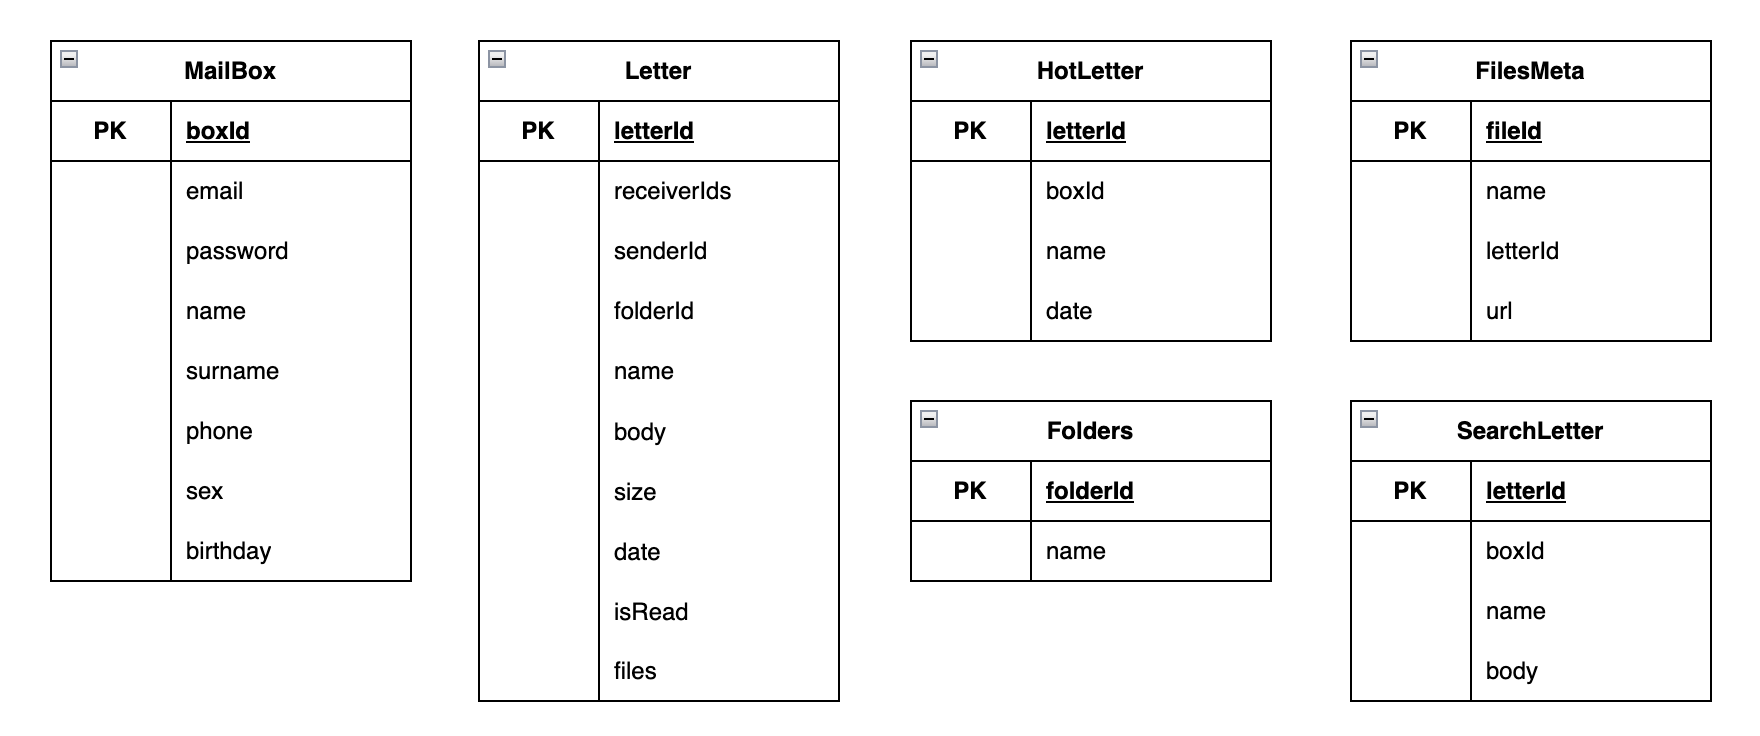
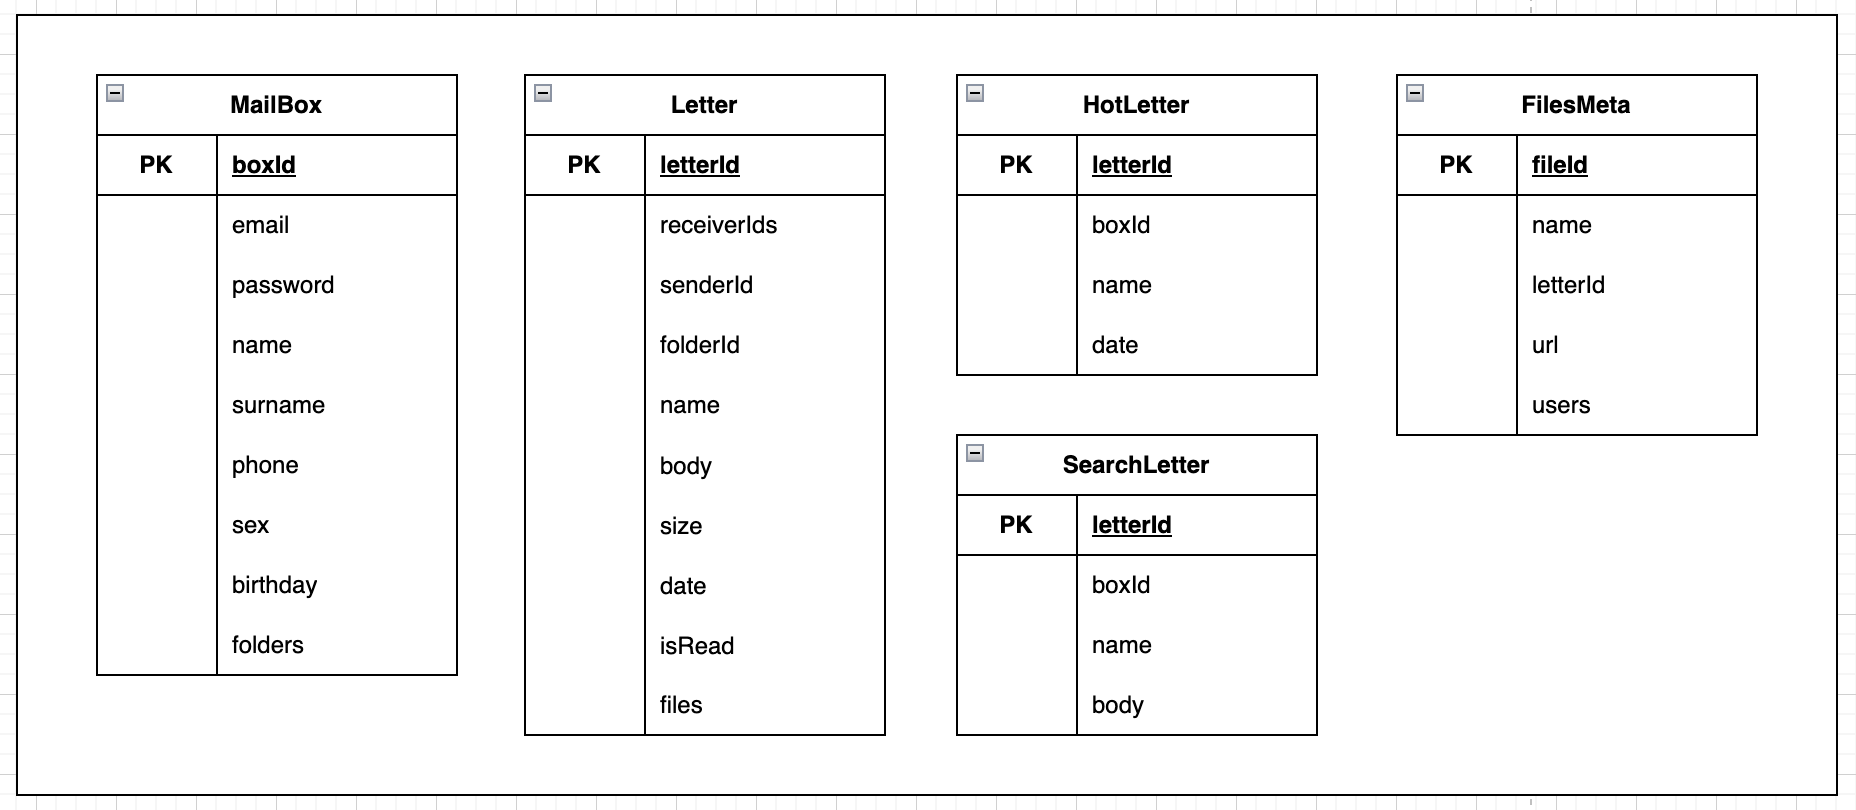
fix: logic and fiz db, technologies

diff --git a/README.md b/README.md
@@ -224,47 +224,41 @@ bigint    | bigint array[5]      | bigint   | bigint        | varchar(50) | varc
 | User           | 2 000        |
 | Folder         | 3 000        |
 
-// TODO: суммарный объем каждой таблице
+|    Таблица     |    Объем     |
+|----------------|--------------|
+| Letter         | 1 000 PB     |
+| MailBox        | 300 GB       |
+| User           | 600 GB       |
+| Folder         | 1 700 GB     |
 
 ## 6. Физическая схема <a name="6"></a>
 
 Таблица | Решение | Технология
 --------|---------|-----------
-MailBox | Денормолизуем бд, убрав таблицу таблицу User и перенеся все поля в таблицу MailBox | postgresql
+MailBox | Денормолизуем бд, убрав таблицу таблицу User и перенеся все поля в таблицу MailBox, также перенесем сюда же содержимое таблицы Folders в виде [{ folderId, name }] | postgresql
 Letter  | В таблице Letter добавим поле files, в котором хранится массив структур прикрепленных к письму файлов ({ id файла, имя файла }) | postgresql
 HotLetter | Для быстрой выдачи последних писем, выделим отдельную таблицу с названием и телом письма, индексированную по дате | postgresql
 SearchLetter | Для полнотекстового поиска писем по немполному совпадению используем Elasticsearch | elasticsearch
-Folders | Сами папки хранить в шардированный постгрес (ключ шардирования - id папки % число шардов), данные из постгри специальный сервис берет и кладет в мемкэш, сервис занимается валидацией и инвалидацией кэша, все остальные сервисы ходят в него | postgresql / memcached
-FilesMeta | Необходимо хранить мета-данные файла, такие как имя, url в s3, id письма для проверки доступа к файлу | postgresql
-Files   | Файлы хранить в kv blob-storage | s3
-
-// TODO: уточнить s3-хранилище
-
-* Сессии пользователей будем хранить в Reddis.
+FilesMeta | Необходимо хранить мета-данные файла, такие как имя, url в s3, id письма для проверки доступа к файлу, а также массив пользователей, имеющих доступ к файлу | postgresql
+Files   | Файлы хранить в kv blob-storage (s3) | Minio
+Sessions | Сессии пользователей | Reddis
 
 ![image](er_fiz.png)
 
-// TODO: в FilesMeta добавить массив пользователей
-// TODO: фолдерс запихнуть в маилбокс, список объектов с айди и именем
 ## 7. Технологии <a name="7"></a>
 
 | Технология  | Область применения             | Обоснование                                                                                             |
 |-------------|--------------------------------|---------------------------------------------------------------------------------------------------------|
-| React       | Библиотека Frontend            | Ускорит процесс разработки                                                                              |
-| Go          | Backend                        | Простота языка, удобные тулзы из коробки, высокая утилизация CPU                                                                  |
+| React       | Библиотека Frontend            | Ускорит процесс разработки, так как яляется распространенным решением с хорошей документацией и значительным количеством умелых разрабочтиков, знающих данный фреймворк |
+| Go          | Backend                        | Простота языка, удобные тулзы из коробки, высокая утилизация CPU, большое комьюнити разработчиков |
 | Redis       | Backend                        | In-memory БД позволяет обеспечить высокую скорость на чтение и запись, также с шардированием из коробки |
-| PostgreSQL  | Хранение данных сущностей      | Обладает хорошей функциональностью и поддержкой                                                         |
-| Memcached   | Хранение данных папок          | Cервис кэширования данных в оперативной памяти на основе хеш-таблицы |
-| Elasticsearch | Хранение писем для поиска          | Программная поисковая система |
-| Nginx       | Web-server Reverse proxy       | Комерческий стандарт                                                                                    |
-| GitLab      | Система контроля версий, CI/CD | Командная разработка, pipelines                                                                         |
-| Kubernetes  | Deploy                         | Масштабируемая система deploy                                                                           |
-| Docker      | Виртуализация                  | Локальная разработка, унификация процессов  
-
-// TODO: отказываемся от мемкэш
-// TODO: написать в обосновании, почему конкретно для меня
-// TODO: s3 добавить
-// TODO: обосновать эластик серч, работает ли он с индесом по дате и сортировке по имени
+| PostgreSQL  | Хранение данных сущностей      | Обладает хорошей функциональностью и поддержкой, также при правильном ручном шардировании показывает высокие результаты по производительности и нагрузкам |
+| Elasticsearch | Хранение писем для поиска    | Является отличным выбором для полнотекстового поиска по письмам в проекте, так как он предоставляет мощные возможности индексации и поиска текстовых данных |
+| Minio       | Хранение вложенных файлов      | Довольно хорошее решение, обладающие сравнительно неплохими показателями производительности как на чтение, так и на запись, а также обеспечивает высокую масштабируемость, opensource |
+| Nginx       | Web-server Reverse proxy       | Комерческий стандарт, большая функциональность, полезная проекту почты (например, авторизация) |
+| GitLab      | Система контроля версий, CI/CD | Комерческий стандарт, командная разработка, pipelines |
+| Kubernetes  | Deploy                         | Масштабируемая система deploy с высокой надежностью, отказоустойчивостью и доступностью, что гарантирует бесперебойную работу приложения |
+| Docker      | Виртуализация                  | Локальная разработка, унификация процессов | 
 
 ## 8. Схема проекта <a name="8"></a>
 
